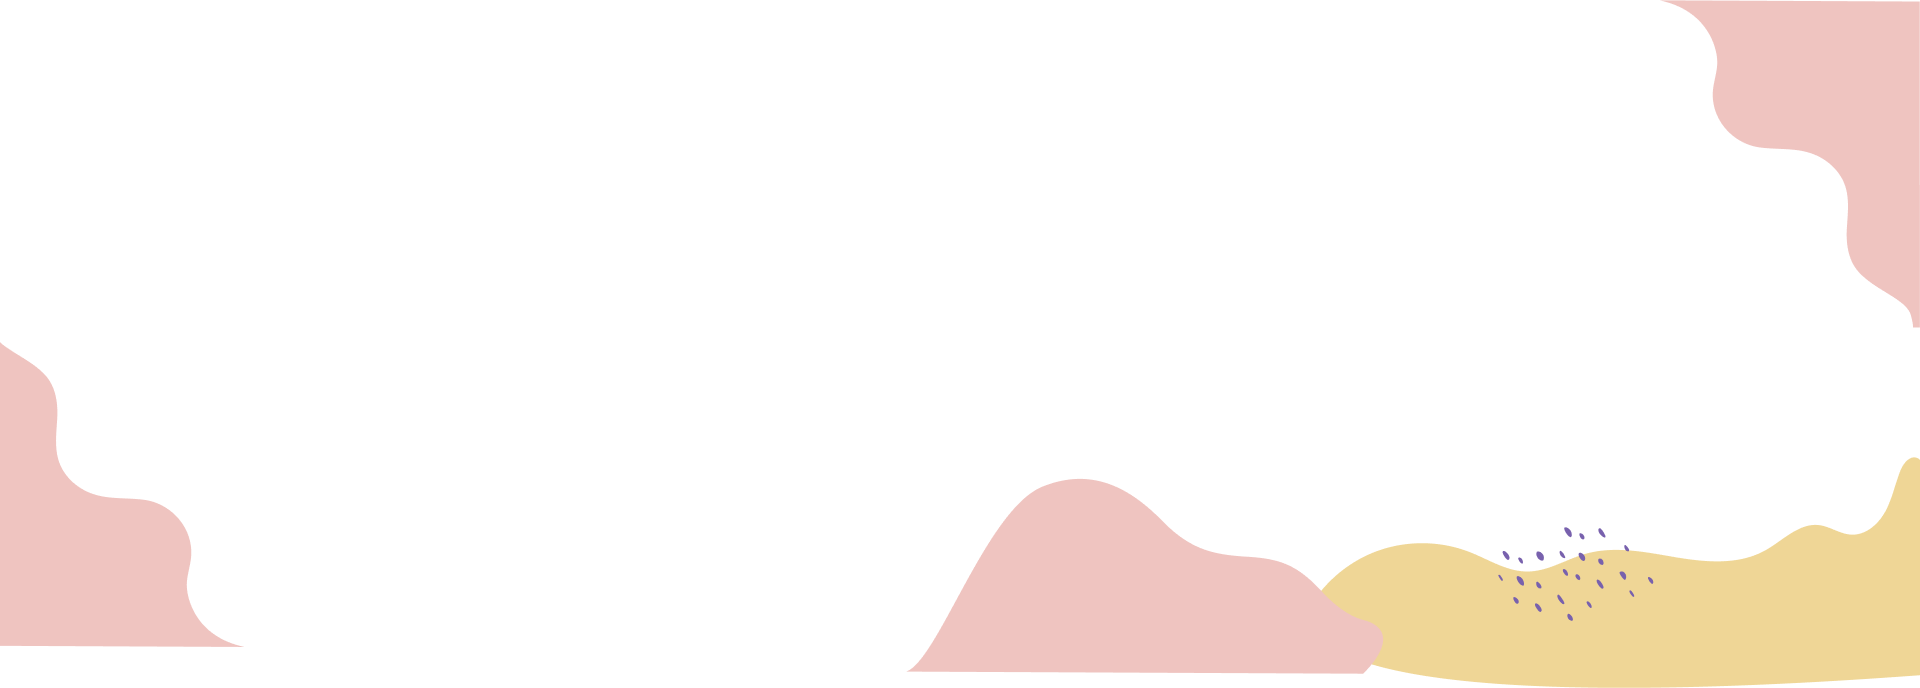
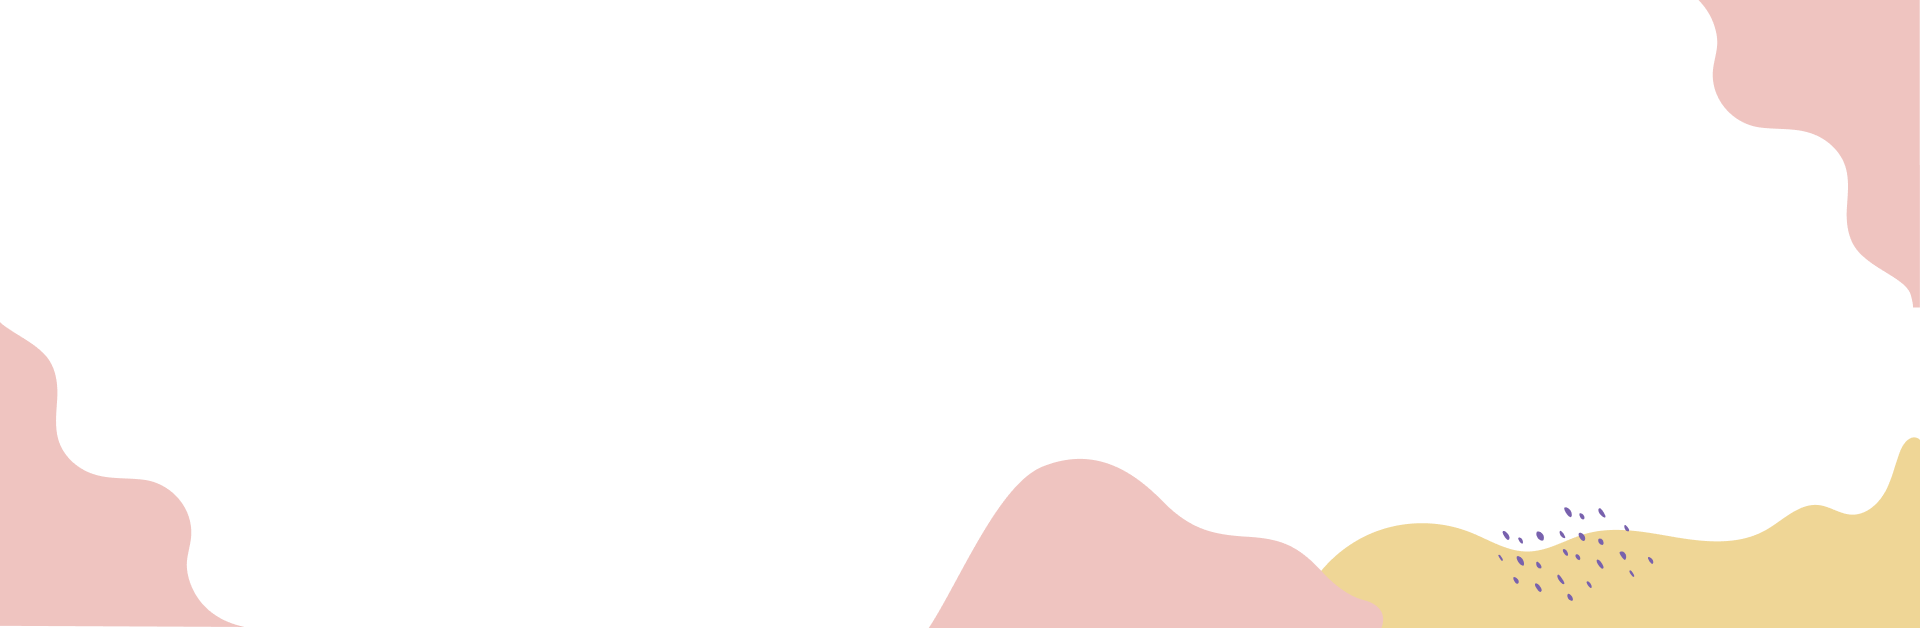
correct main

diff --git a/src/components/Pages/MainPage/AboutSection.scss b/src/components/Pages/MainPage/AboutSection.scss
@@ -1,13 +1,15 @@
 @import "../../../scss/mixins";
 .AboutSection{
-     background-image: url('./assets/Group\ 23.png');
-background-size:100% ;
-background-position-y:  top;
-background-position-x: 100%;
-background-repeat: no-repeat;
-background-size: 100% 100%;
-padding-bottom: 86px;
+  // background-image: url('./assets/Group\ 23.png');
+  background-image: url("./assets/bg_top.png"), url("./assets/bg_bottom.png");
+  background-repeat: no-repeat, no-repeat;
+  background-position: top right, bottom right;
+  background-size: 100% auto;
+  padding-bottom: 40px;
 
+  @include media-tablet{
+    margin-bottom: 20px;
+  } 
 }
 .container-aboutSection {
     max-width: 1280px;
@@ -40,11 +42,14 @@ padding-bottom: 86px;
 
   }
   .content-container{
-margin-top: 130px;
-max-width: 500px;
-text-align: justify;
-h2{
-    margin-bottom: 20px;
-}
+    margin-top: 130px;
+    max-width: 500px;
+    text-align: justify;
+    h2{
+        margin-bottom: 20px;
+    }
 
+    @include media-tablet{
+      margin-top: 20px;
+    }    
   }
